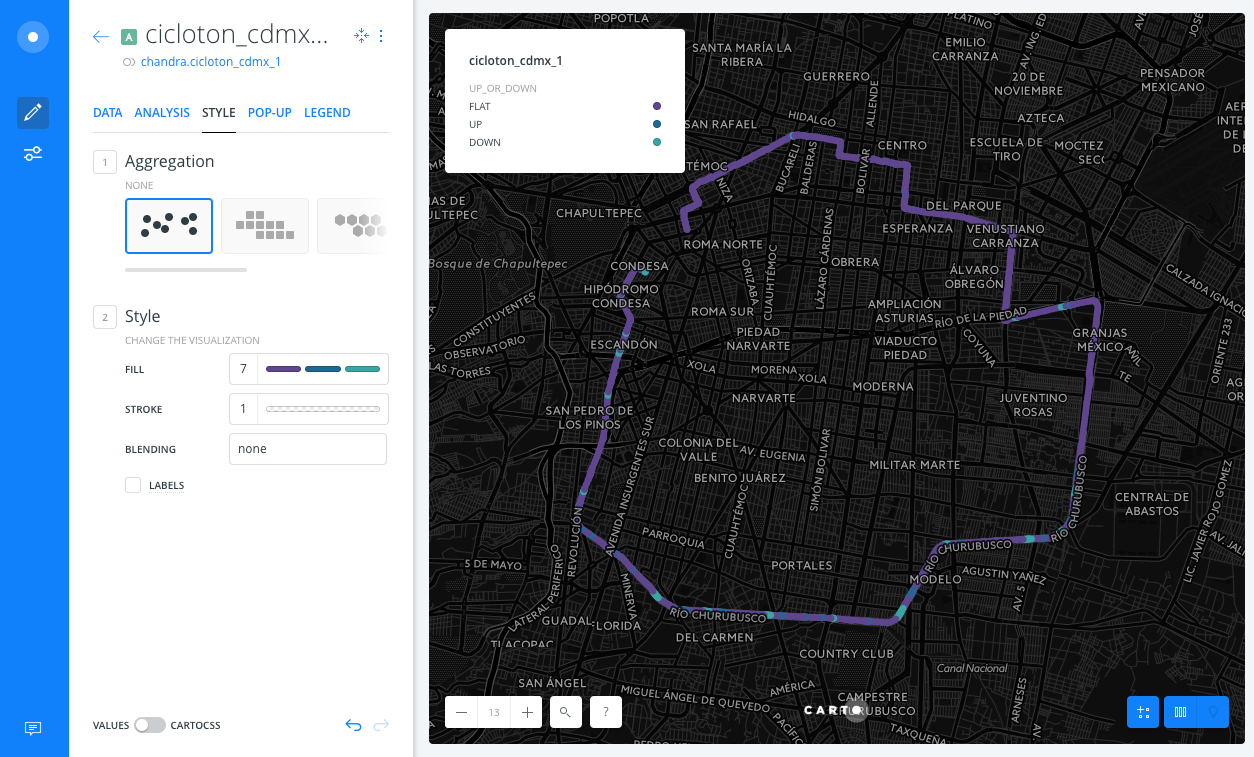
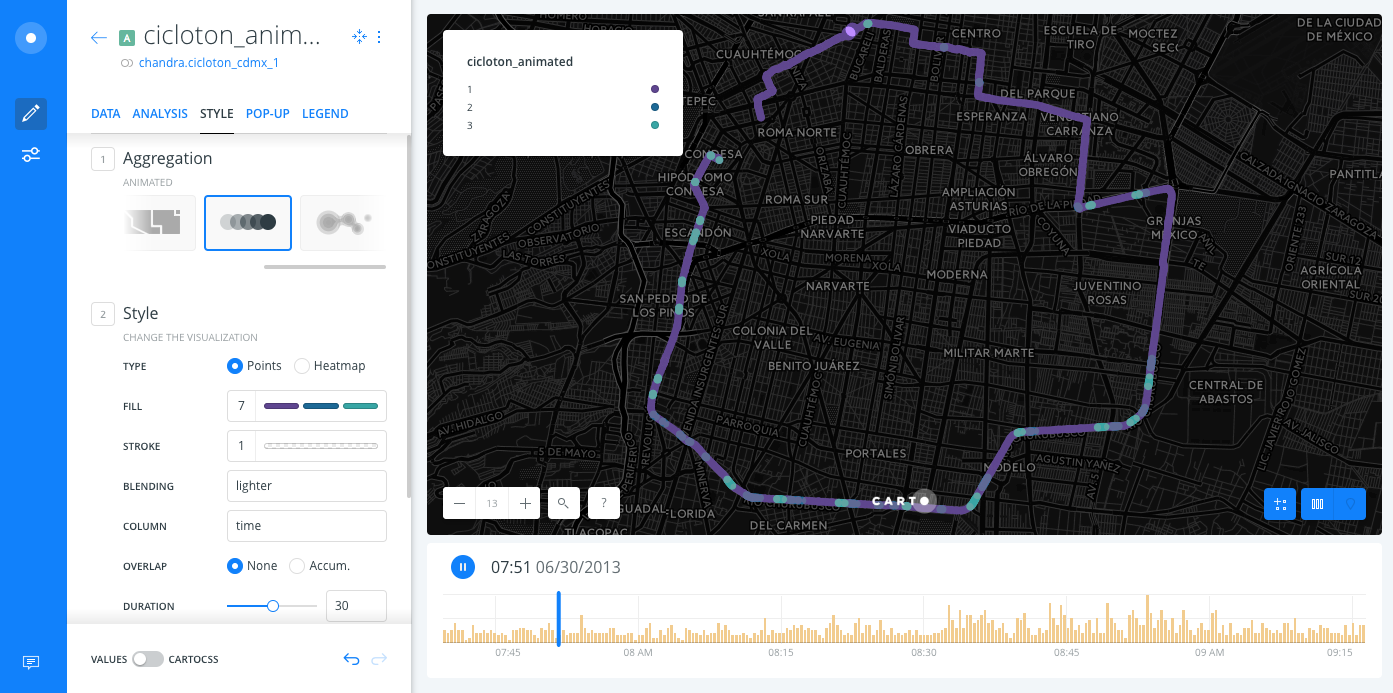
updating torque category directions

diff --git a/01-builder-visualization/exercises/torque.md b/01-builder-visualization/exercises/torque.md
@@ -71,12 +71,15 @@ Tweak the labels, suffixes, number of bins, etc so you get a nice map of the tra
 
 ## Adding category style
 
-Besides styling data by a time field, you can also style data by a column value. Select the data layer you styled as an animated map:
+Besides styling data by a time field, you can also style data by a column value to create an animated category map. Download the [cicloton category map .carto file]. Import the map to your account. Open the map, and select the "cicloton_animated" layer in the layer panel:
 
 * Navigate to the *STYLE* tab
-* Select on the *Aggregation* section, choose "none" for the aggregation
+* Select on the *Aggregation* section, choose "ANIMATED" for the aggregation
 * Click on the color fill bar next to "FILL" on the *Style* section
 * In the upper left hand side of the color picker, select "BY VALUE" (not "SOLID"). Choose the "up_or_down" column from the column list that appears.
-* To see your data values better, select the color bar next to *Stroke*. In the color picker, change the opacity from "1" (located in the lower right hand side) to "0"
+* To see your data values better, select the color bar next to "Stroke" in the *Style* section. In the color picker, change the opacity from "1" (located in the lower right hand side) to "0"
+* Set the "COLUMN" form option to the "time" column
+* Play with the animated settings in the *Style* section. Try a longer or shorter duration, or longer or shorter steps. 
+* Set the *TRAILS* field to "0" remove the trailing markers
 
 ![](imgs/01-torque-04.png)
